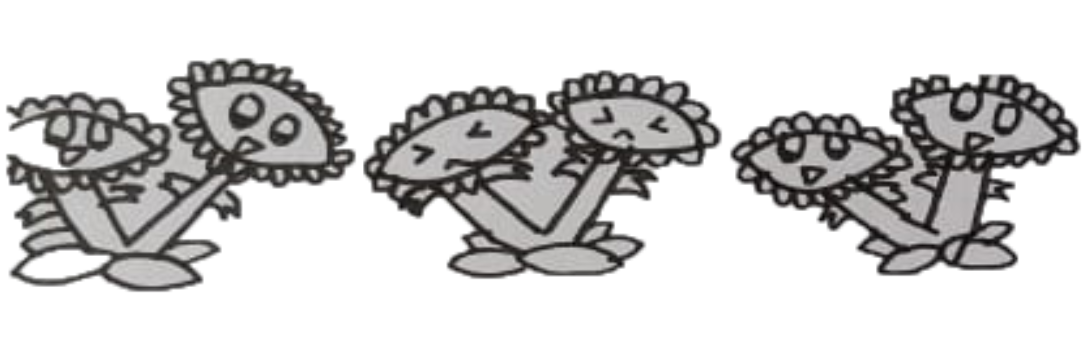
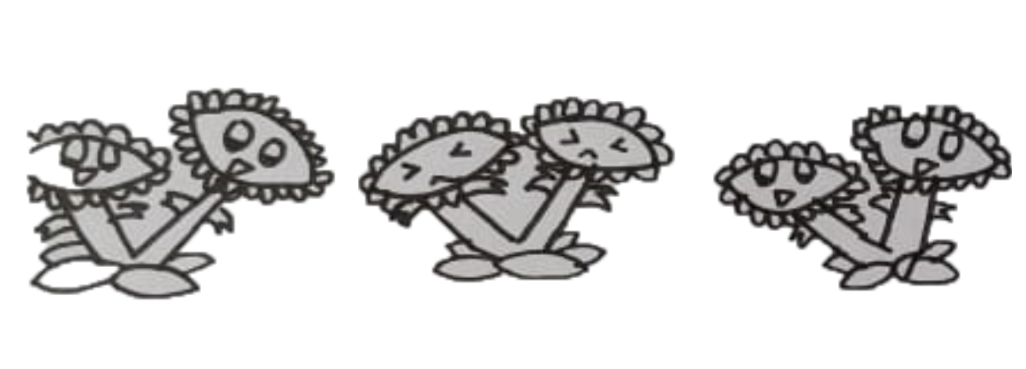
new wonderballs

Changed region(s): [[0.0, 0.1719, 0.9981, 0.8596]]

diff --git a/wonderballgame/script.js b/wonderballgame/script.js
@@ -27,6 +27,7 @@ let level_zombies = curr_level*10+Math.pow(curr_level,2);
 let boss_points = 50;
 let go_next_levl = false;
 let winningScore = level_zombies*10+boss_points;
+let givenZombies = 0;
 
 
 
@@ -350,11 +351,12 @@ function handleEnemies(){
     let verticalPosition = Math.floor(Math.random()*5) * cellSize + cellGap;
     let type = 0;
     type = Math.floor(Math.random()*(enemyTypes.length-2));
-    if (score > level_zombies*9) {
+    if (givenZombies >= level_zombies) {
       type = 2;
       boss = true;
     }
     enemies.push(new Enemy(verticalPosition, enemyTypes[type]));
+    givenZombies += 1;
     enemyPositions.push(verticalPosition);
     if ( enemiesInterval > 150){
       enemiesInterval -= 25;
@@ -427,7 +429,7 @@ function handleGameStatus(){
     ctx.font = '60px Orbitron';
     ctx.fillText("Pau & Feli, Try again.", 135, 370);
   }
-  if(enemies.length == 0){
+  if(enemies.length == 0 && givenZombies >= level_zombies){
     ctx.fillStyle = 'black';
     ctx.font = '60px Orbitron';
     ctx.fillText("LEVEL COMPLETE", 130, 300);
@@ -529,7 +531,7 @@ function handleSelection(){
   }
 
   if (collision(mouse, nextButton) && mouse.clicked){
-    if(curr_page < Math.max(curr_level,4)){
+    if(curr_page < Math.max(curr_level,allTypes.length-10)){
       curr_page +=1;
       mouse.clicked=false;
       initAllCards();

diff --git a/wonderballgame/wonderball_def.js b/wonderballgame/wonderball_def.js
@@ -283,3 +283,47 @@ const card14 = {
   restingFrames : 2
 }
 allTypes.push(card14);
+
+const wonderball15 = new Image();
+wonderball15.src = 'wonderballs/doudisbateador.png';
+wonderballTypes.push(wonderball15);
+
+const wonderball15pry = new Image();
+wonderball15pry.src = 'wonderballs/batproy.png';
+
+
+const card15 = {
+  img: wonderball15,
+  cost: 225,
+  defense: 0.35,
+  power: 60,
+  health: 200,
+  type: distanceshoot,
+  projectile_img: wonderball15pry,
+  shootingFrames : 3,
+  restingFrames : 2,
+  shootFrame:4
+}
+allTypes.push(card15);
+
+const wonderball16 = new Image();
+wonderball16.src = 'wonderballs/lanzadora.png';
+wonderballTypes.push(wonderball16);
+
+const wonderball16pry = new Image();
+wonderball16pry.src = 'wonderballs/lanzadoraproy.png';
+
+
+const card16 = {
+  img: wonderball16,
+  cost: 320,
+  defense: 0.25,
+  power: 100,
+  health: 180,
+  type: distanceshoot,
+  projectile_img: wonderball16pry,
+  shootingFrames : 2,
+  restingFrames : 1,
+  shootFrame:1
+}
+allTypes.push(card16);

diff --git a/wonderballgame/wonderballclasses.js b/wonderballgame/wonderballclasses.js
@@ -25,7 +25,7 @@ class Projectile{
   update(){
     this.x += this.speed;
     this.y += this.speedy;
-    if (this.originaly-this.y > 50) this.speedy *= -1;
+    if (this.originaly-this.y > 30) this.speedy *= -1;
     if (this.y == this.originaly) this.speedy = 0;
   }
   draw(){
